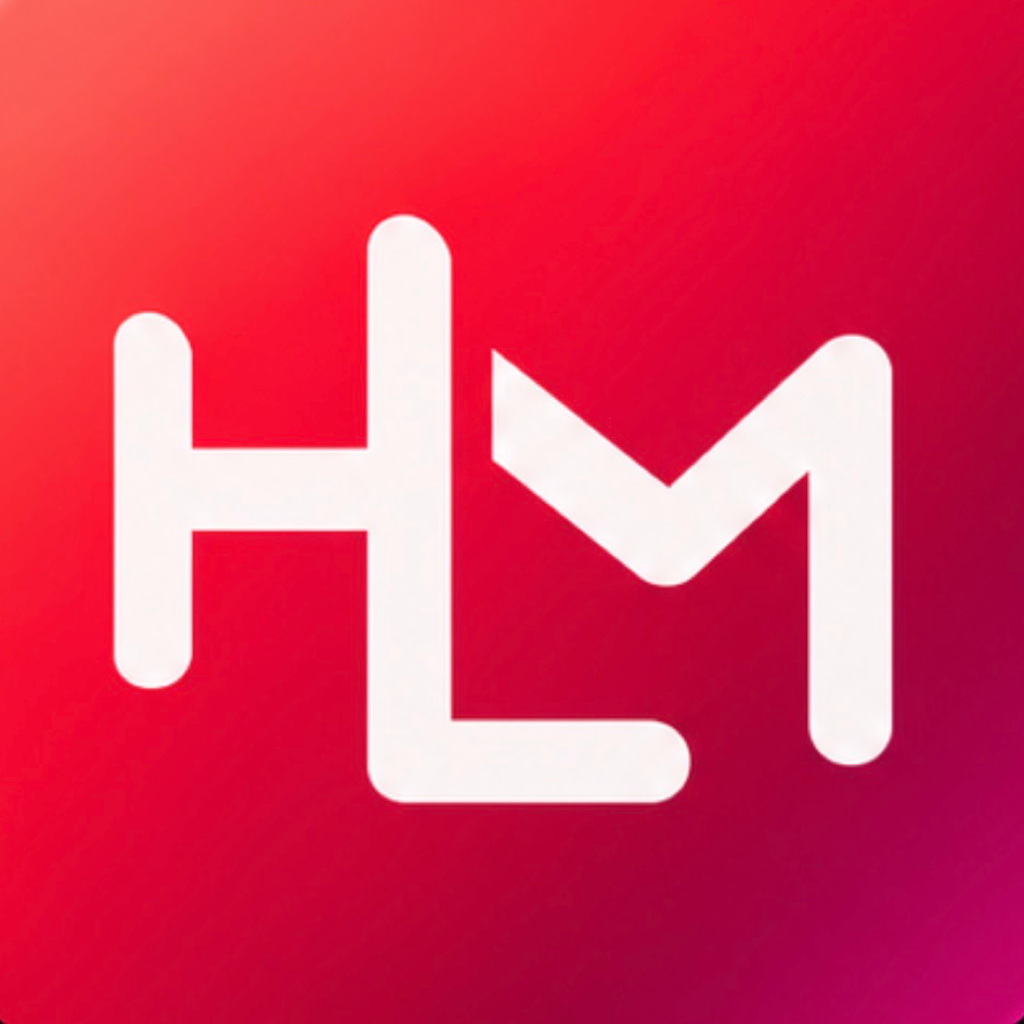
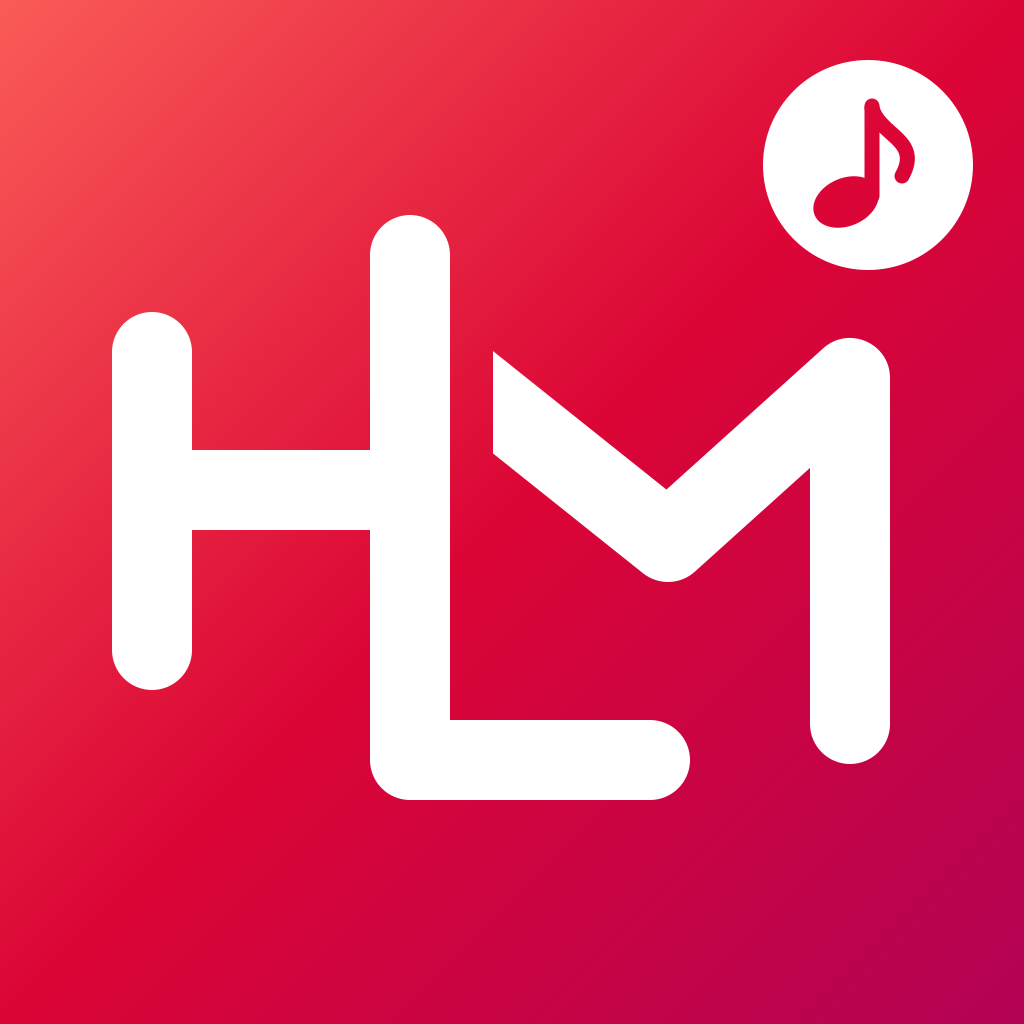
Einheitliches HomeLab-Design: HLM-Symbol als Vektor mit Plakette (Note), Startbild quadratisch 2732 px (scharf auf Mac und iPad), Zeichen der Anmeldeseite neu

diff --git a/Helper/homelab/icon_zeichnen.swift b/Helper/homelab/icon_zeichnen.swift
@@ -1,39 +1,160 @@
-// Zeichnet die Glas-Ebene des App-Symbols (weiss auf transparent, 1024 × 1024):
-// Haus-Umriss mit Musiknote. Aufruf: xcrun swift Helper/homelab/icon_zeichnen.swift <ziel.png>
+// App-Symbol und Startbild der HomeLab-Apps (HomeLabOffice, HomeLabMusic, HomeLabBooks), alle im gleichen Stil:
+// Farbverlauf, Monogramm «HL» + Anfangsbuchstabe in weissen, runden Strichen (H und L teilen sich den hohen
+// Mittelbalken) und oben rechts eine weisse Plakette mit ausgestanztem Symbol (Computer, Note, Buch).
+// Die Symbole sind selbst gezeichnet (SF Symbols dürfen laut Lizenz nicht in App-Symbolen stehen).
+// Dieselbe Datei liegt in allen drei Repos, nur `app` unten ist verschieden.
+// Aufruf: xcrun swift icon_zeichnen.swift <ziel.png> [--zeichen | --rund | --start]
+//   ohne Option: App-Symbol 1024 × 1024, deckend ohne Alphakanal (App Store verlangt das)
+//   --zeichen: nur das weisse Zeichen mit Plakette auf transparent (Vorlage, z. B. Anmeldeseite)
+//   --rund:    App-Symbol mit runden Ecken auf transparent (Logo der Anmeldeseite)
+//   --start:   Startbild 2732 × 2732 mit Schriftzug; quadratisch, damit es am iPhone (Mittelstreifen),
+//              iPad und Mac (Querformat) bildschirmfüllend und scharf ist
 import AppKit
 import CoreGraphics
 
-let n = 1024
-let ctx = CGContext(data: nil, width: n, height: n, bitsPerComponent: 8, bytesPerRow: 0,
-                    space: CGColorSpace(name: CGColorSpace.sRGB)!,
-                    bitmapInfo: CGImageAlphaInfo.premultipliedLast.rawValue)!
-ctx.translateBy(x: 0, y: CGFloat(n)); ctx.scaleBy(x: 1, y: -1)          // y nach unten
-ctx.setStrokeColor(CGColor(red: 1, green: 1, blue: 1, alpha: 1))
-ctx.setFillColor(CGColor(red: 1, green: 1, blue: 1, alpha: 1))
-ctx.setLineCap(.round); ctx.setLineJoin(.round)
+enum App { case office, music, books }
+let app = App.music
 
-// Haus: Dach und Wände als ein Linienzug
-ctx.setLineWidth(64)
-ctx.move(to: CGPoint(x: 300, y: 470))
-ctx.addLine(to: CGPoint(x: 300, y: 790))
-ctx.addLine(to: CGPoint(x: 724, y: 790))
-ctx.addLine(to: CGPoint(x: 724, y: 470))
-ctx.strokePath()
-ctx.move(to: CGPoint(x: 200, y: 540))
-ctx.addLine(to: CGPoint(x: 512, y: 250))
-ctx.addLine(to: CGPoint(x: 824, y: 540))
-ctx.strokePath()
+let cs = CGColorSpace(name: CGColorSpace.sRGB)!
+func c(_ r: CGFloat, _ g: CGFloat, _ b: CGFloat, _ a: CGFloat = 1) -> CGColor { CGColor(srgbRed: r, green: g, blue: b, alpha: a) }
 
-// Musiknote: zwei Köpfe mit Balken
-ctx.setLineWidth(40)
-ctx.fillEllipse(in: CGRect(x: 392, y: 628, width: 92, height: 76))
-ctx.fillEllipse(in: CGRect(x: 552, y: 600, width: 92, height: 76))
-ctx.move(to: CGPoint(x: 466, y: 666)); ctx.addLine(to: CGPoint(x: 466, y: 470)); ctx.strokePath()
-ctx.move(to: CGPoint(x: 626, y: 638)); ctx.addLine(to: CGPoint(x: 626, y: 442)); ctx.strokePath()
-ctx.setLineWidth(52)
-ctx.move(to: CGPoint(x: 466, y: 476)); ctx.addLine(to: CGPoint(x: 626, y: 448)); ctx.strokePath()
+struct Stil {
+  let name: String
+  let verlauf: [CGColor]                    // oben links -> unten rechts
+  let lichter: [(CGFloat, CGFloat, CGFloat, CGColor)]   // Startbild: x, y (0…1, y nach oben), Radius, Farbe
+  let mitteX: CGFloat                       // Mitte des Monogramms (ohne Plakette) im 1024er Raster
+}
+let stil: Stil = {
+  switch app {
+  case .office: return Stil(name: "HomeLabOffice",
+    verlauf: [c(0.16, 0.45, 0.96), c(0.13, 0.58, 0.90), c(0.10, 0.74, 0.80)],
+    lichter: [(0.30, 0.97, 0.44, c(0.55, 0.75, 1.0, 0.45)), (0.75, 0.62, 0.40, c(0.06, 0.20, 0.62, 0.45)),
+              (0.35, 0.28, 0.40, c(0.20, 0.85, 0.85, 0.40)), (0.73, 0.05, 0.36, c(0.05, 0.35, 0.55, 0.45))],
+    mitteX: 487)
+  case .music: return Stil(name: "HomeLabMusic",
+    verlauf: [c(0.98, 0.36, 0.34), c(0.86, 0.02, 0.21), c(0.70, 0.01, 0.33)],
+    lichter: [(0.30, 0.97, 0.44, c(1.00, 0.55, 0.50, 0.40)), (0.75, 0.64, 0.40, c(0.45, 0.01, 0.14, 0.45)),
+              (0.35, 0.28, 0.40, c(1.00, 0.12, 0.32, 0.40)), (0.73, 0.05, 0.36, c(0.42, 0.02, 0.36, 0.50))],
+    mitteX: 501)
+  case .books: return Stil(name: "HomeLabBooks",
+    verlauf: [c(0.16, 0.78, 0.70), c(0.04, 0.58, 0.52), c(0.02, 0.40, 0.48)],
+    lichter: [(0.30, 0.97, 0.44, c(0.55, 0.95, 0.85, 0.40)), (0.75, 0.62, 0.40, c(0.01, 0.28, 0.35, 0.45)),
+              (0.35, 0.28, 0.40, c(0.20, 0.85, 0.75, 0.40)), (0.73, 0.05, 0.36, c(0.02, 0.22, 0.38, 0.50))],
+    mitteX: 482)
+  }
+}()
 
-let bild = ctx.makeImage()!
-let rep = NSBitmapImageRep(cgImage: bild)
-try! rep.representation(using: .png, properties: [:])!.write(to: URL(fileURLWithPath: CommandLine.arguments[1]))
-print("geschrieben:", CommandLine.arguments[1])
+// Monogramm mit Plakette im 1024er Raster, y nach unten. Zeichnet in eine eigene Ebene, damit das Symbol
+// aus der Plakette ausgestanzt werden kann und sich halbtransparente Striche nicht überlagern.
+func zeichen(_ ctx: CGContext) {
+  ctx.beginTransparencyLayer(auxiliaryInfo: nil)
+  ctx.setStrokeColor(c(1, 1, 1)); ctx.setFillColor(c(1, 1, 1))
+  ctx.setLineWidth(80); ctx.setLineCap(.round); ctx.setLineJoin(.round)
+  func linie(_ pts: [(CGFloat, CGFloat)]) {
+    ctx.move(to: CGPoint(x: pts[0].0, y: pts[0].1))
+    for p in pts.dropFirst() { ctx.addLine(to: CGPoint(x: p.0, y: p.1)) }
+    ctx.strokePath()
+  }
+  linie([(152, 352), (152, 650)])                  // H links
+  linie([(152, 490), (410, 490)])                  // H Querbalken
+  linie([(410, 255), (410, 760), (650, 760)])      // gemeinsamer Balken H/L und L-Fuss
+  switch app {
+  case .office:                                    // O als Ring, so hoch wie die Mittellänge
+    ctx.strokeEllipse(in: CGRect(x: 561, y: 380, width: 260, height: 260))
+  case .music:                                     // M: Diagonale links gerade abgeschnitten
+    ctx.saveGState()
+    ctx.clip(to: CGRect(x: 493, y: 0, width: 531, height: 1024))
+    linie([(400, 328), (668, 542), (850, 378), (850, 724)])
+    ctx.restoreGState()
+  case .books:                                     // B: Stamm, oberer und unterer Bogen (unten breiter)
+    let x0: CGFloat = 535, oben: CGFloat = 290, mitte: CGFloat = 465, unten: CGFloat = 640, r = (mitte - oben) / 2
+    ctx.move(to: CGPoint(x: x0, y: oben)); ctx.addLine(to: CGPoint(x: 680, y: oben))
+    ctx.addArc(center: CGPoint(x: 680, y: oben + r), radius: r, startAngle: -.pi / 2, endAngle: .pi / 2, clockwise: false)
+    ctx.addLine(to: CGPoint(x: x0, y: mitte))
+    ctx.move(to: CGPoint(x: x0, y: mitte)); ctx.addLine(to: CGPoint(x: 725, y: mitte))
+    ctx.addArc(center: CGPoint(x: 725, y: mitte + r), radius: r, startAngle: -.pi / 2, endAngle: .pi / 2, clockwise: false)
+    ctx.addLine(to: CGPoint(x: x0, y: unten)); ctx.addLine(to: CGPoint(x: x0, y: oben))
+    ctx.strokePath()
+  }
+
+  // Plakette oben rechts, Symbol ausgestanzt (Mitte 868/165, Radius 105)
+  ctx.fillEllipse(in: CGRect(x: 763, y: 60, width: 210, height: 210))
+  ctx.setBlendMode(.destinationOut)
+  switch app {
+  case .office:                                    // Computer: Bildschirm mit Fuss
+    ctx.addPath(CGPath(roundedRect: CGRect(x: 806, y: 112, width: 124, height: 84), cornerWidth: 12, cornerHeight: 12, transform: nil))
+    ctx.fillPath()
+    ctx.fill(CGRect(x: 856, y: 194, width: 24, height: 18))
+    ctx.addPath(CGPath(roundedRect: CGRect(x: 834, y: 208, width: 68, height: 14), cornerWidth: 7, cornerHeight: 7, transform: nil))
+    ctx.fillPath()
+  case .music:                                     // Achtelnote: schräger Kopf, Hals, Fähnchen
+    ctx.saveGState(); ctx.translateBy(x: 846, y: 202); ctx.rotate(by: -0.4)
+    ctx.fillEllipse(in: CGRect(x: -34, y: -24, width: 68, height: 48)); ctx.restoreGState()
+    ctx.setLineWidth(15); ctx.setLineCap(.round)
+    ctx.move(to: CGPoint(x: 872, y: 196)); ctx.addLine(to: CGPoint(x: 872, y: 106)); ctx.strokePath()
+    ctx.move(to: CGPoint(x: 872, y: 108))
+    ctx.addCurve(to: CGPoint(x: 902, y: 176), control1: CGPoint(x: 880, y: 136), control2: CGPoint(x: 922, y: 140))
+    ctx.strokePath()
+  case .books:                                     // Buch: Deckel mit Rücken, darunter abgesetzt der Seitenblock
+    ctx.addPath(CGPath(roundedRect: CGRect(x: 820, y: 104, width: 96, height: 98), cornerWidth: 12, cornerHeight: 12, transform: nil))
+    ctx.fillPath()
+    ctx.addPath(CGPath(roundedRect: CGRect(x: 820, y: 210, width: 96, height: 18), cornerWidth: 9, cornerHeight: 9, transform: nil))
+    ctx.fillPath()
+    ctx.setBlendMode(.normal)
+    ctx.fill(CGRect(x: 840, y: 100, width: 8, height: 106))           // Rücken
+  }
+  ctx.setBlendMode(.normal)
+  ctx.endTransparencyLayer()
+}
+
+func verlauf(_ ctx: CGContext, _ w: CGFloat, _ h: CGFloat) {
+  ctx.drawLinearGradient(CGGradient(colorsSpace: cs, colors: stil.verlauf as CFArray, locations: [0, 0.5, 1])!,
+                         start: CGPoint(x: 0, y: h), end: CGPoint(x: w, y: 0), options: [])
+}
+func speichern(_ ctx: CGContext) {
+  try! NSBitmapImageRep(cgImage: ctx.makeImage()!).representation(using: .png, properties: [:])!
+    .write(to: URL(fileURLWithPath: CommandLine.arguments[1]))
+  print("geschrieben:", CommandLine.arguments[1])
+}
+
+let args = CommandLine.arguments
+if args.contains("--start") {
+  let n = 2732, N = CGFloat(n)
+  let ctx = CGContext(data: nil, width: n, height: n, bitsPerComponent: 8, bytesPerRow: 0, space: cs,
+                      bitmapInfo: CGImageAlphaInfo.noneSkipLast.rawValue)!
+  verlauf(ctx, N, N)
+  for (x, y, r, col) in stil.lichter {             // weiche Lichter und Schatten für Tiefe
+    let g = CGGradient(colorsSpace: cs, colors: [col, col.copy(alpha: 0)!] as CFArray, locations: [0, 1])!
+    let p = CGPoint(x: x * N, y: y * N)
+    ctx.drawRadialGradient(g, startCenter: p, startRadius: 0, endCenter: p, endRadius: r * N, options: [])
+  }
+  // Grössen bezogen auf den Streifen, den ein iPhone im Hochformat zeigt (Höhe × 1179/2556)
+  let streifen = N * 1179 / 2556, f = streifen / 1179
+  let scale: CGFloat = 0.42 * streifen / 1024
+  let ox = N / 2 - stil.mitteX * scale, oy = N * 0.40 - 508 * scale
+  ctx.saveGState()
+  ctx.translateBy(x: 0, y: N); ctx.scaleBy(x: 1, y: -1)
+  ctx.setAlpha(0.97)
+  ctx.translateBy(x: ox, y: oy); ctx.scaleBy(x: scale, y: scale)
+  zeichen(ctx)
+  ctx.restoreGState()
+  NSGraphicsContext.current = NSGraphicsContext(cgContext: ctx, flipped: false)
+  let text = NSAttributedString(string: stil.name, attributes: [
+    .font: NSFont.systemFont(ofSize: 90 * f, weight: .light), .foregroundColor: NSColor(white: 1, alpha: 0.95), .kern: 4 * f])
+  let size = text.size()
+  text.draw(at: NSPoint(x: (N - size.width) / 2, y: N - (oy + 1024 * 0.80 * scale) - size.height - 120 * f))
+  speichern(ctx)
+} else {
+  let n = 1024, N = CGFloat(n)
+  let transparent = args.contains("--zeichen") || args.contains("--rund")
+  let ctx = CGContext(data: nil, width: n, height: n, bitsPerComponent: 8, bytesPerRow: 0, space: cs,
+                      bitmapInfo: (transparent ? CGImageAlphaInfo.premultipliedLast : CGImageAlphaInfo.noneSkipLast).rawValue)!
+  if args.contains("--rund") {
+    ctx.addPath(CGPath(roundedRect: CGRect(x: 0, y: 0, width: N, height: N), cornerWidth: 225, cornerHeight: 225, transform: nil))
+    ctx.clip()
+  }
+  if !args.contains("--zeichen") { verlauf(ctx, N, N) }
+  ctx.translateBy(x: 0, y: N); ctx.scaleBy(x: 1, y: -1)
+  zeichen(ctx)
+  speichern(ctx)
+}
